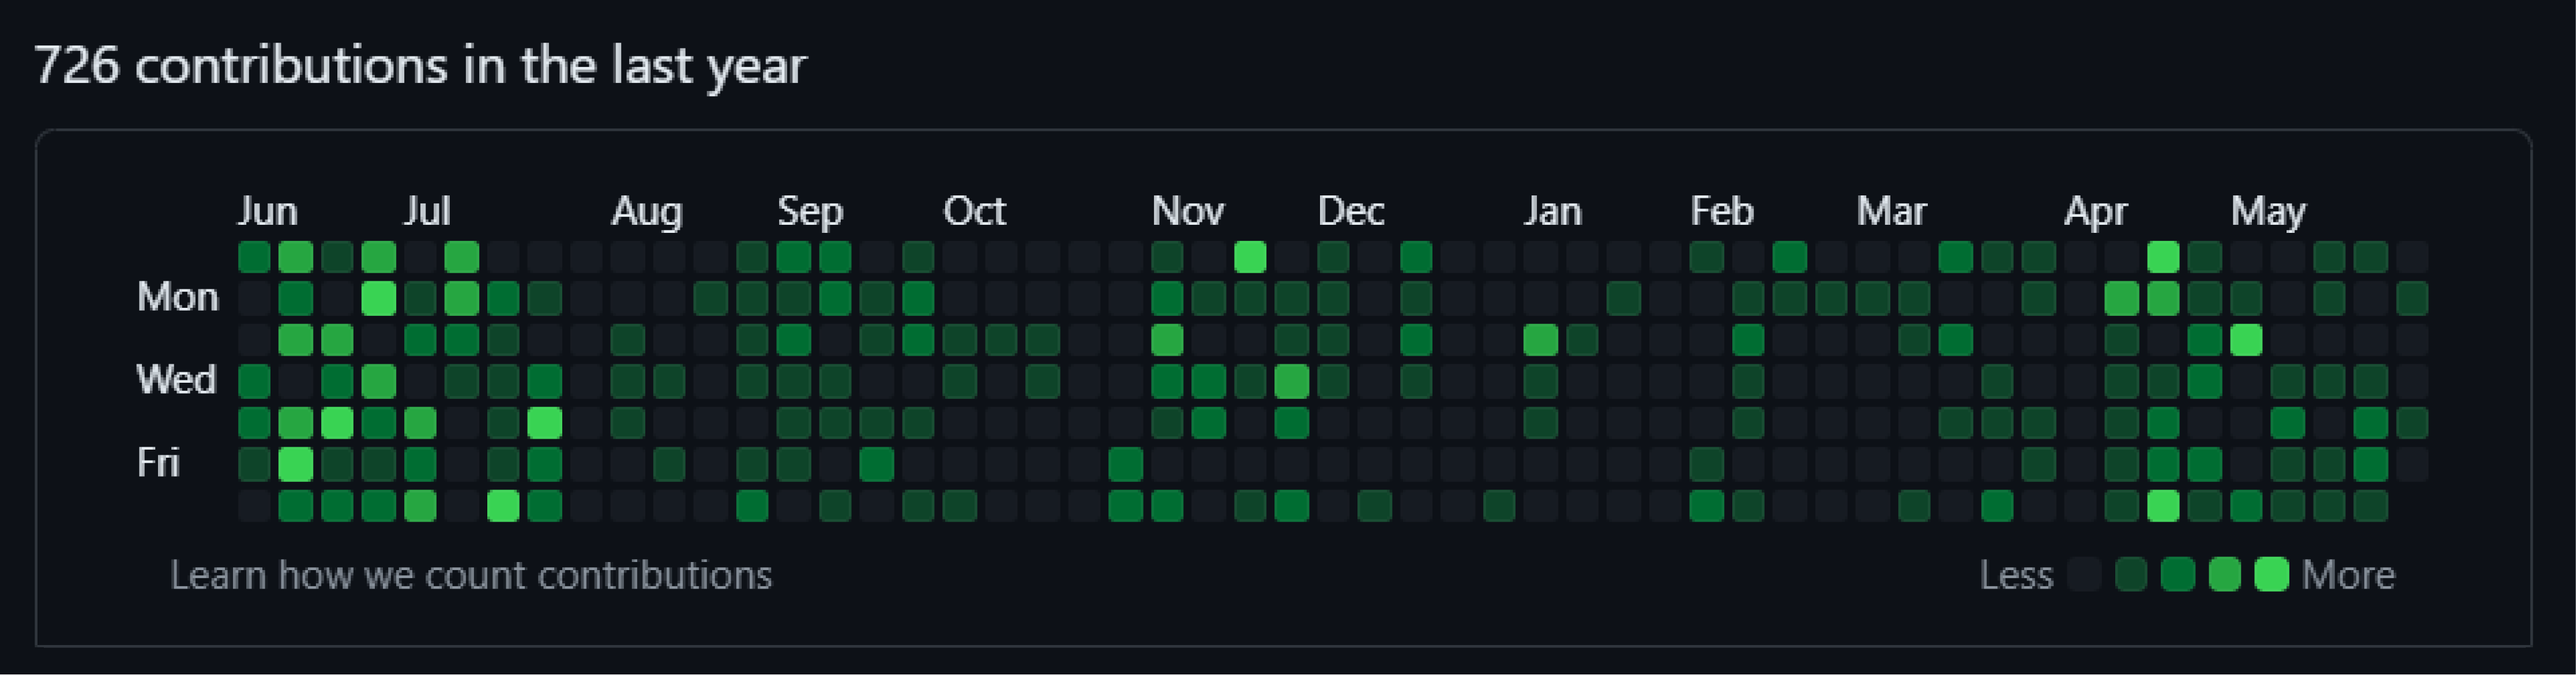
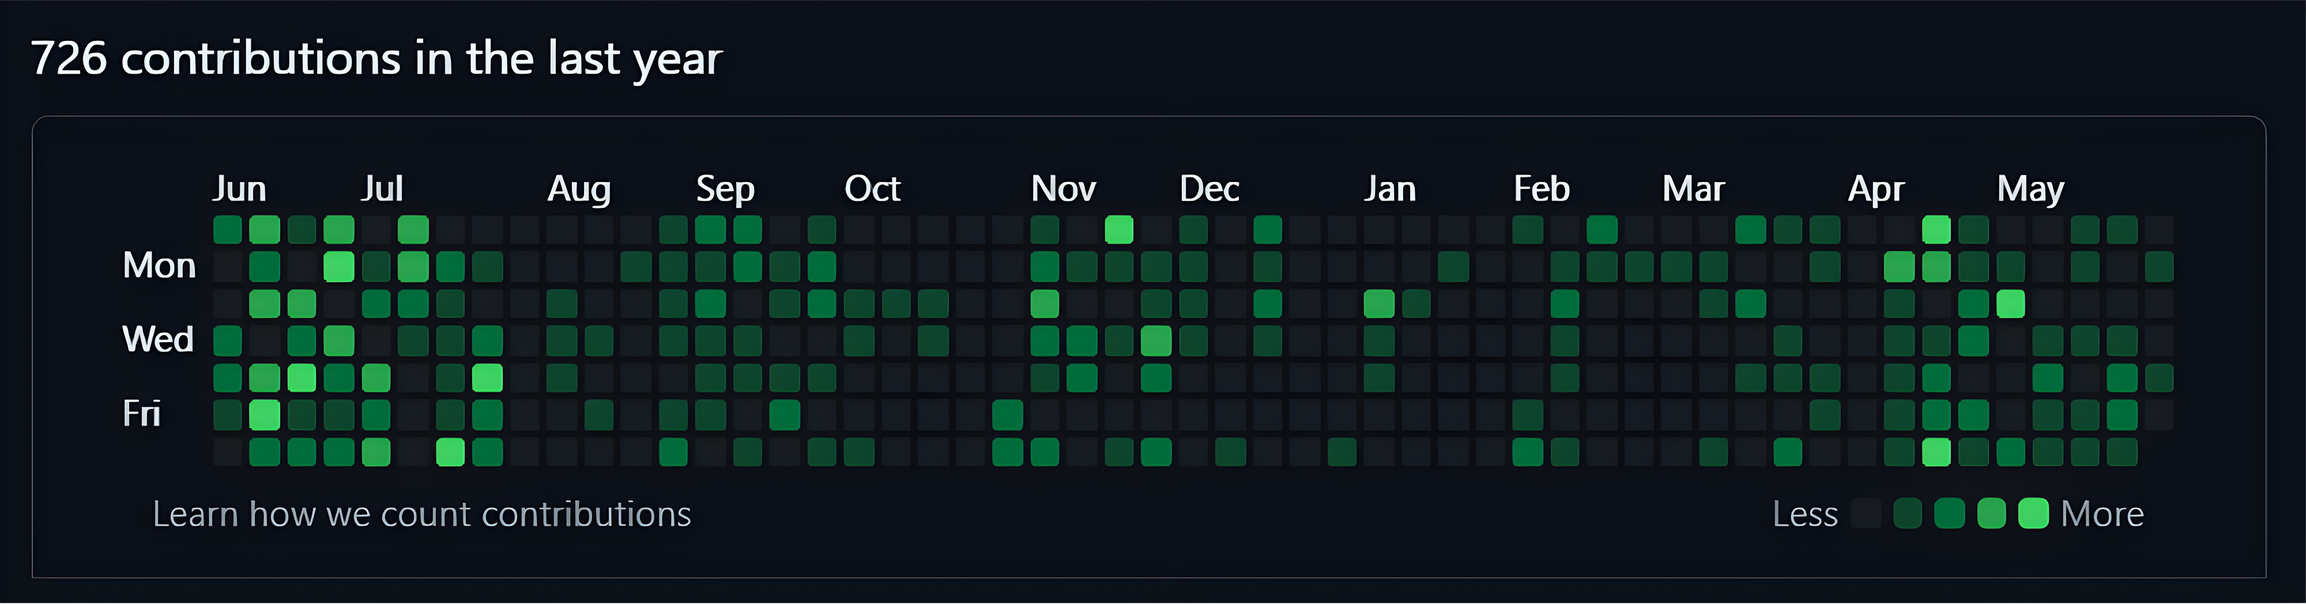
add git commit graph

diff --git a/app/components/home/graph-area/git-commit-graph.tsx b/app/components/home/graph-area/git-commit-graph.tsx
@@ -1,0 +1,32 @@
+import Image from "next/image"
+import Link from "next/link";
+import GithubCommitGraph from "@/public/home/github-commit-img/commit-graph.png";
+
+import Stylers from "@/app/components/home/graph-area/commit-graph.module.css";
+
+const GitCommitGraph = () => {
+    return (
+        <>
+            <p style={{
+                textAlign: 'center',
+                color: 'white',
+                fontSize: 17
+            }}>
+                My contributions so far, See my stats on <a style={{
+                    textDecoration: 'none',
+                    color: '#39D353',
+                    fontWeight: '500'
+                }} target="_blank" href="https://github.com/vihanpereraux">github</a>
+            </p>
+            <Link target="_blank" href="https://github.com/vihanpereraux">
+                <Image
+                    className={`${Stylers.graph}  mx-auto d-block`}
+                    src={GithubCommitGraph}
+                    alt="vihan perera's commit graph"
+                />
+            </Link>
+        </>
+    )
+}
+
+export default GitCommitGraph

diff --git a/app/page.tsx b/app/page.tsx
@@ -1,14 +1,13 @@
 "use client"
 
 import Image from "next/image";
-import GithubCommitGraph from "@/public/home/github-commit-img/commit-graph.png";
 
-// bootstrap comps
+// bootstrap components
 import Styles from './Home.module.css';
-import { Card, Button, Col, Row } from "react-bootstrap";
+import { Button, Col, Row } from "react-bootstrap";
 
 import HomeCards from "./components/home/banner/home-cards";
-
+import GitCommitGraph from "./components/home/graph-area/git-commit-graph";
 
 export default function Home() {
   return (
@@ -29,13 +28,12 @@ export default function Home() {
         </Row>
       </header>
 
-      <div>
-        <Image
-          className={Styles.commit_graph}
-          src={GithubCommitGraph}
-          alt="s">
-        </Image>
-      </div>
+      {/* github commit graph preview */}
+      <Row>
+        <Col sm={12} md={12} lg={12}>
+          <GitCommitGraph />
+        </Col>
+      </Row>
 
       {/* dev intro */}
 

diff --git a/app/components/home/graph-area/commit-graph.module.css b/app/components/home/graph-area/commit-graph.module.css
@@ -1,0 +1,4 @@
+.graph {
+    margin-top: 40px;
+    width: 70%;
+}
